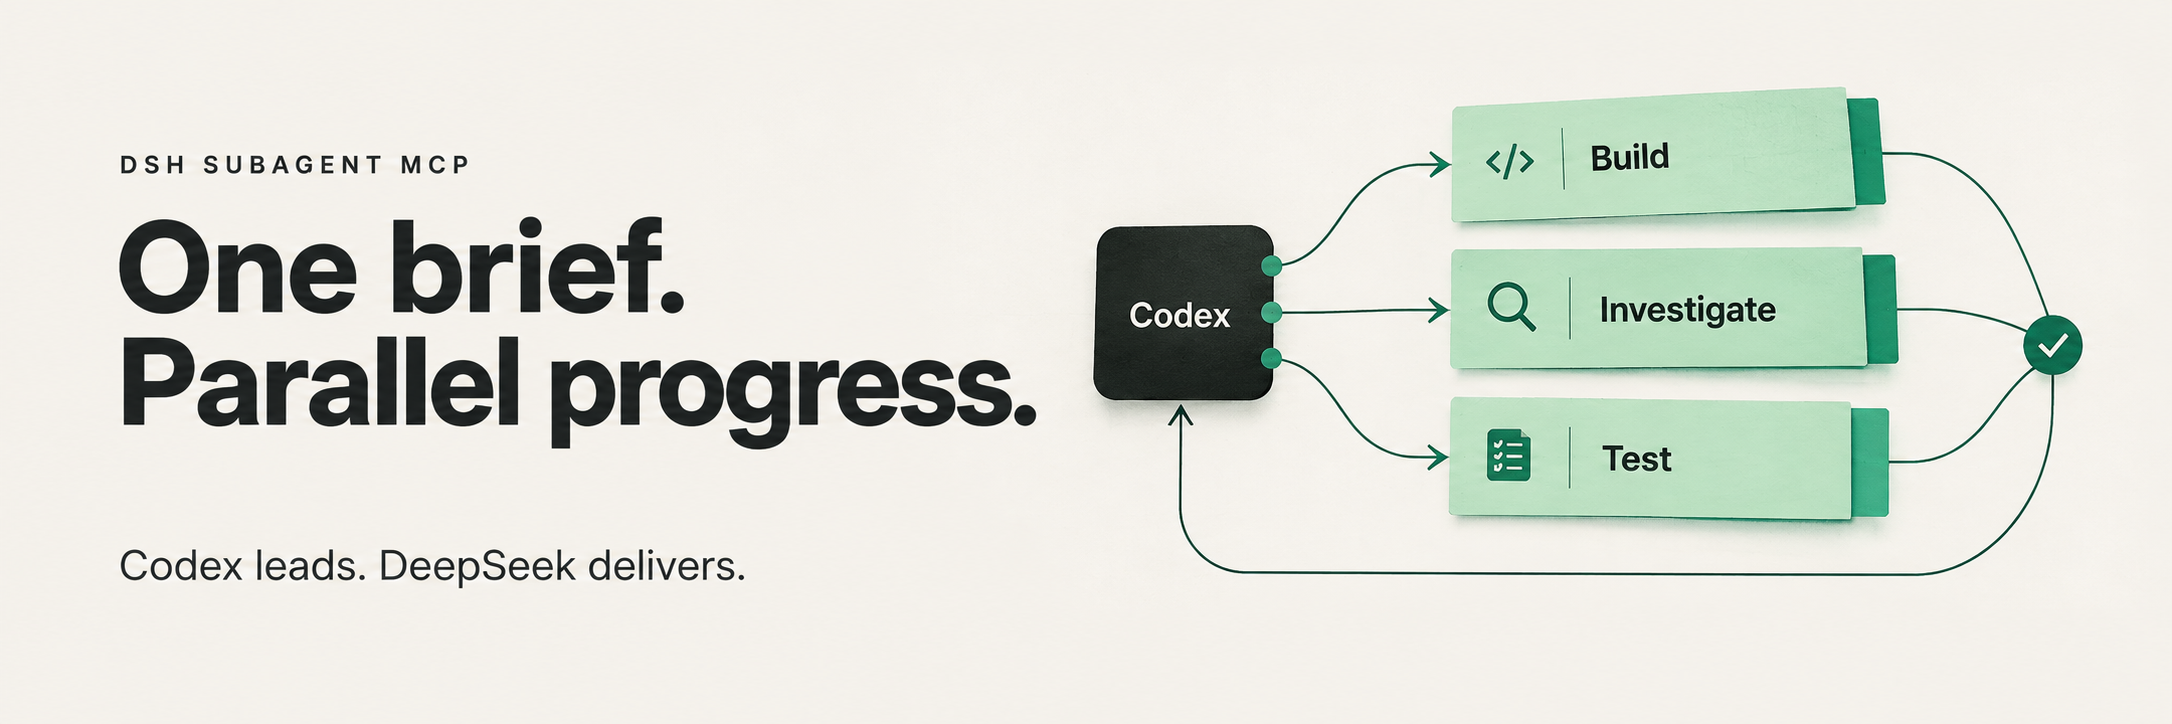
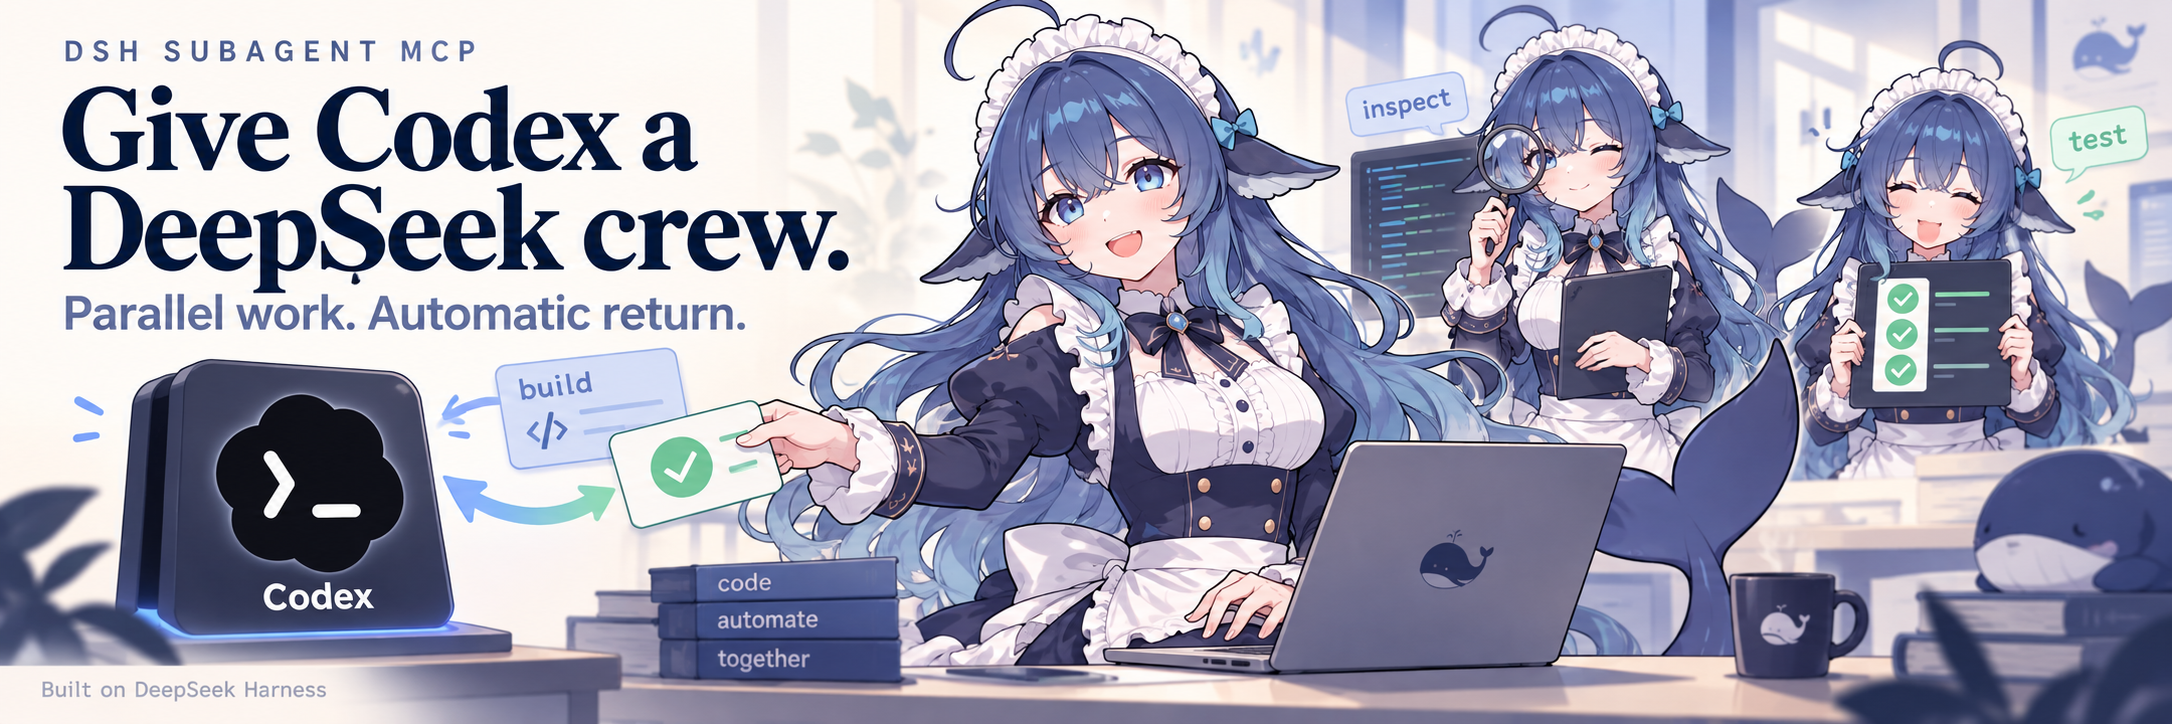
docs: give DSH a whale-girl identity and simplify quick start

diff --git a/README.md b/README.md
@@ -1,20 +1,20 @@
 <p align="center">
-  <img src="https://raw.githubusercontent.com/dqtz5vpvj9-create/dsh-subagent-mcp/main/docs/assets/readme-hero.png" alt="DSH Subagent MCP — One brief. Parallel progress. Codex delegates independent work to DeepSeek agents and receives completion callbacks." width="1200">
+  <img src="https://raw.githubusercontent.com/dqtz5vpvj9-create/dsh-subagent-mcp/main/docs/assets/readme-hero.png" alt="DSH Subagent MCP — Give Codex a DeepSeek crew. Blue-haired whale-girl agents write code, investigate, and test beside the Codex terminal emblem." width="1200">
 </p>
 
 <p align="center">
   <a href="https://www.npmjs.com/package/dsh-subagent-mcp"><img src="https://img.shields.io/npm/v/dsh-subagent-mcp?style=flat-square&amp;color=CB3837" alt="npm version"></a>
-  <a href="skills/dsh-subagent/SKILL.md"><img src="https://img.shields.io/badge/Codex-skill-167D72?style=flat-square" alt="Codex skill included"></a>
+  <a href="skills/dsh-subagent/SKILL.md"><img src="https://img.shields.io/badge/Codex-skill-4D6BFE?style=flat-square" alt="Codex skill included"></a>
   <a href="LICENSE"><img src="https://img.shields.io/badge/License-MIT-A6ADBB?style=flat-square" alt="MIT license"></a>
 </p>
 
 <p align="center">English · <a href="README.zh-CN.md">中文</a> · <a href="#get-started">Quick start</a> · <a href="docs/usage.md">Usage guide</a></p>
 
-Let Codex plan and review while DeepSeek agents implement, investigate, and test in parallel. Each result returns automatically, so Codex can resume when there is work to review.
+Give Codex a team of DeepSeek agents. Let them implement, investigate, and test in parallel while Codex plans and reviews. Results return automatically, and each agent keeps its context for the next task.
 
 <table>
 <tr>
-<td width="33%"><strong>Work in parallel</strong><br>Give each agent a complete task and its own file ownership.</td>
+<td width="33%"><strong>Work in parallel</strong><br>Move independent tasks forward at the same time.</td>
 <td width="33%"><strong>Return automatically</strong><br>Finished work wakes Codex with the answer and evidence.</td>
 <td width="33%"><strong>Keep the context</strong><br>Continue the same agent for fixes, questions, and verification.</td>
 </tr>
@@ -22,20 +22,17 @@ Let Codex plan and review while DeepSeek agents implement, investigate, and test
 
 ## Get started
 
-You need **Linux with systemd, Node.js 24+, Python 3, Codex CLI, and a configured DSH installation**. Native callbacks need a Codex App Server supporting `turn/start.toolOutput`; the [live validation](docs/codex-callback-validation.md) used CLI 0.157.1 and App Server 0.157.0.
-
 ```sh
 npx -y dsh-subagent-mcp@latest setup --skill
 ```
 
-Setup installs a persistent local service, registers the MCP server, and links the skill. Its runtime stays outside the disposable npx cache. If your DeepSeek key exists only in the current shell, add `--capture-key`. See [setup and upgrades](docs/setup.md).
+Setup connects DSH to Codex and installs the skill. See the [installation guide](docs/setup.md) for environment requirements, credentials, and upgrades.
 
 Open a new Codex session and ask:
 
 ```text
 Use $dsh-subagent to implement the agreed plan in parallel.
-Give each agent a complete deliverable, separate file ownership, and relevant tests.
-Register completion callbacks, then review and integrate each result when it arrives.
+Have the agents run the relevant tests, then review and integrate their results.
 ```
 
 For a smaller first task:

diff --git a/README.zh-CN.md b/README.zh-CN.md
@@ -1,20 +1,20 @@
 <p align="center">
-  <img src="https://raw.githubusercontent.com/dqtz5vpvj9-create/dsh-subagent-mcp/main/docs/assets/readme-hero.png" alt="DSH Subagent MCP：Codex 统筹，DeepSeek 并行工作，完成结果自动回传。" width="1200">
+  <img src="https://raw.githubusercontent.com/dqtz5vpvj9-create/dsh-subagent-mcp/main/docs/assets/readme-hero.png" alt="DSH Subagent MCP：给 Codex 配一支 DeepSeek 团队。蓝发鲸鱼娘在 Codex 终端图标旁协作完成代码实现、排查与测试。" width="1200">
 </p>
 
 <p align="center">
   <a href="https://www.npmjs.com/package/dsh-subagent-mcp"><img src="https://img.shields.io/npm/v/dsh-subagent-mcp?style=flat-square&amp;color=CB3837" alt="npm version"></a>
-  <a href="skills/dsh-subagent/SKILL.md"><img src="https://img.shields.io/badge/Codex-skill-167D72?style=flat-square" alt="Codex skill included"></a>
+  <a href="skills/dsh-subagent/SKILL.md"><img src="https://img.shields.io/badge/Codex-skill-4D6BFE?style=flat-square" alt="Codex skill included"></a>
   <a href="LICENSE"><img src="https://img.shields.io/badge/License-MIT-A6ADBB?style=flat-square" alt="MIT license"></a>
 </p>
 
 <p align="center">中文 · <a href="README.md">English</a> · <a href="#开始使用">开始使用</a> · <a href="docs/usage.md">使用指南</a></p>
 
-让 Codex 负责规划和验收，DeepSeek 子代理并行完成实现、排查与测试。每个任务完成后自动回传，唤醒 Codex 继续处理。
+给 Codex 配一支 DeepSeek 团队。让子代理并行完成实现、排查与测试，Codex 负责规划和验收。结果自动回传，后续任务也能交给保留着上下文的同一个代理。
 
 <table>
 <tr>
-<td width="33%"><strong>并行推进</strong><br>每个代理领取完整任务，在自己的范围内独立执行。</td>
+<td width="33%"><strong>并行推进</strong><br>把独立任务分给多个代理，同时推进。</td>
 <td width="33%"><strong>自动回传</strong><br>完成后带着答复和证据唤醒 Codex，无需轮询。</td>
 <td width="33%"><strong>持续协作</strong><br>保留上下文，让同一个代理继续修复和验证。</td>
 </tr>
@@ -22,20 +22,17 @@
 
 ## 开始使用
 
-需要 **Linux + systemd、Node.js 24+、Python 3、Codex CLI，以及已配置模型凭据的 DSH**。原生回调需要 Codex App Server 支持 `turn/start.toolOutput`；[实测环境](docs/codex-callback-validation.md)为 CLI 0.157.1、App Server 0.157.0。
-
 ```sh
 npx -y dsh-subagent-mcp@latest setup --skill
 ```
 
-安装器会部署持久运行的本地服务、注册 MCP 并链接 skill，运行文件不依赖 npx 临时缓存。如果 DeepSeek key 只在当前 shell 中，再加上 `--capture-key`。详见[安装与升级](docs/setup.md)。
+安装器会将 DSH 接入 Codex，并安装配套 skill。环境要求、凭据配置和升级方法见[安装指南](docs/setup.md)。
 
 新开 Codex 会话，直接安排：
 
 ```text
 用 $dsh-subagent 并发实现已经确认的方案。
-每个代理领取完整任务，明确文件归属，并完成相关测试。
-注册完成回调，结果送达后逐个验收和集成。
+让代理完成相关测试，再验收并集成结果。
 ```
 
 也可以先试一个小任务：

diff --git a/CHANGELOG.md b/CHANGELOG.md
@@ -1,5 +1,10 @@
 # Changelog
 
+## 0.5.2 — 2026-09-28
+
+- Give the README a distinct visual identity with the Codex terminal emblem and a whale-girl coding crew based on the supplied character reference.
+- Simplify the English and Chinese quick starts: lead with the install command and natural task examples; keep environment and credential details in the installation guide. Runtime behavior is unchanged.
+
 ## 0.5.1 — 2026-09-28
 
 - Redesign the English and Chinese README introductions with an illustrated hero, three focused product benefits, fewer badges, and an earlier installation entry point.
